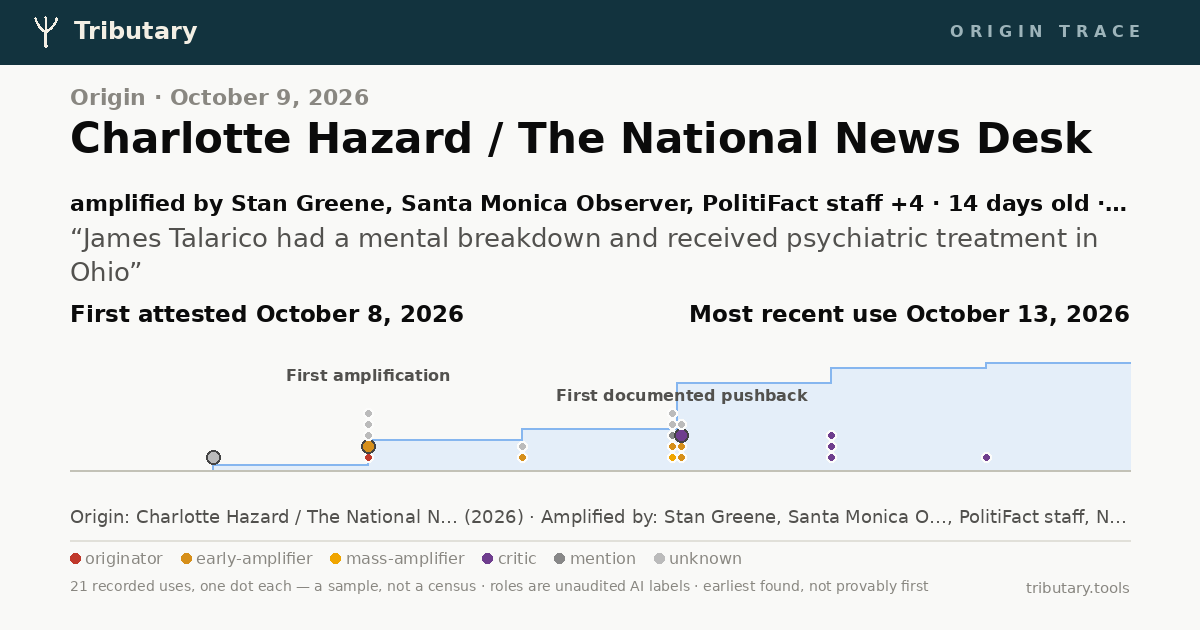
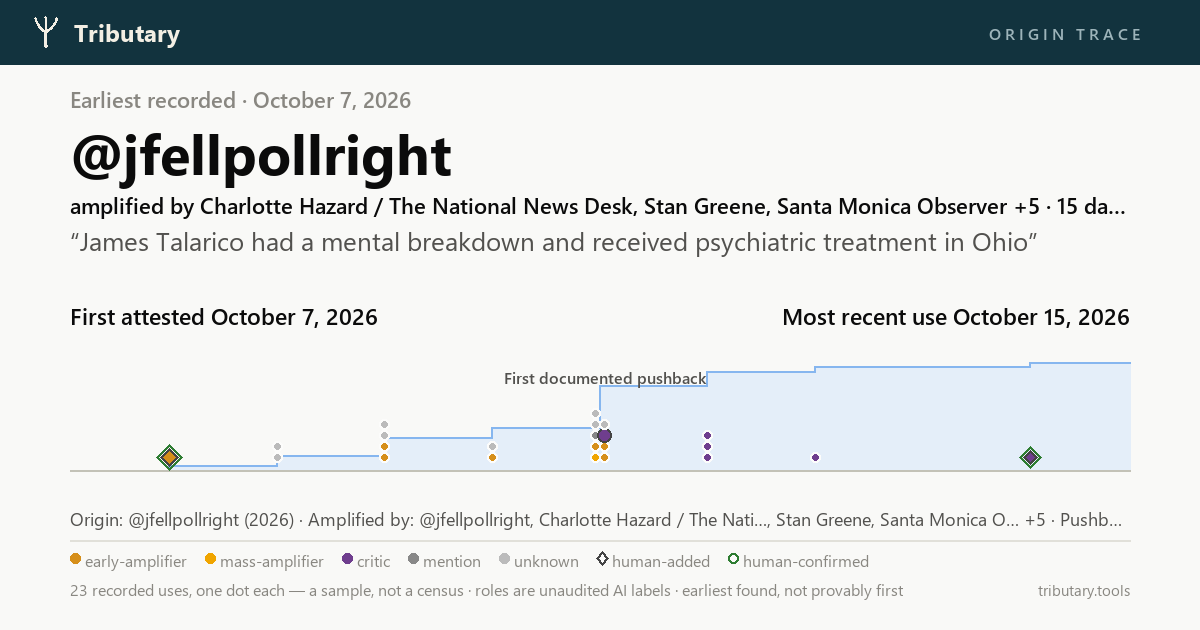
The fresh Talarico trace corrected with receipts before expert eyes: the Oct 7 origin post added (Guardian-documented, snowflake-verified), the Pratt crown removed (a relay cannot coin; origin predates the record), TickleTexts re-dated by its own post id, real status URLs on the cited social origins

diff --git a/gallery/cards/47d78940cf28.html b/gallery/cards/47d78940cf28.html
@@ -3,18 +3,18 @@
 <head>
 <meta charset="utf-8">
 <meta name="viewport" content="width=device-width, initial-scale=1">
-<title>Origin: Charlotte Hazard / The National News Desk — Tributary</title>
+<title>Earliest recorded: @jfellpollright — Tributary</title>
 <meta property="og:type" content="article">
 <meta property="og:site_name" content="Tributary">
-<meta property="og:title" content="Charlotte Hazard / The National News Desk — origin of “James Talarico had a mental breakdown and received psychiatr”">
-<meta property="og:description" content="Amplified by Stan Greene, Santa Monica Observer, PolitiFact staff +4. “James Talarico had a mental breakdown and received psychiatric treatment in Ohio” — first attested October 8, 2026 (14 days old). 21 recorded uses. Every date and source has a receipt. AI-traced, not human-reviewed.">
+<meta property="og:title" content="@jfellpollright — earliest recorded of “James Talarico had a mental breakdown and received psychiatr”">
+<meta property="og:description" content="Amplified by Charlotte Hazard / The National News Desk, Stan Greene, Santa Monica Observer +5. “James Talarico had a mental breakdown and received psychiatric treatment in Ohio” — first attested October 7, 2026 (15 days old). 23 recorded uses. Every date and source has a receipt. AI-traced, not human-reviewed.">
 <meta property="og:image" content="https://tributary.tools/gallery/cards/47d78940cf28.png">
 <meta property="og:image:width" content="1200">
 <meta property="og:image:height" content="630">
-<meta property="og:image:alt" content="Origin: Charlotte Hazard / The National News Desk. Timeline of 21 recorded uses from October 8, 2026 onward. “James Talarico had a mental breakdown and received psychiatric treatment in Ohio”">
+<meta property="og:image:alt" content="Earliest recorded: @jfellpollright. Timeline of 23 recorded uses from October 7, 2026 onward. “James Talarico had a mental breakdown and received psychiatric treatment in Ohio”">
 <meta property="og:url" content="https://tributary.tools/gallery/cards/47d78940cf28.html">
 <meta name="twitter:card" content="summary_large_image">
-<meta name="description" content="Amplified by Stan Greene, Santa Monica Observer, PolitiFact staff +4. “James Talarico had a mental breakdown and received psychiatric treatment in Ohio” — first attested October 8, 2026 (14 days old). 21 recorded uses. Every date and source has a receipt. AI-traced, not human-reviewed.">
+<meta name="description" content="Amplified by Charlotte Hazard / The National News Desk, Stan Greene, Santa Monica Observer +5. “James Talarico had a mental breakdown and received psychiatric treatment in Ohio” — first attested October 7, 2026 (15 days old). 23 recorded uses. Every date and source has a receipt. AI-traced, not human-reviewed.">
 <style>
   :root { color-scheme: light; }
   * { box-sizing: border-box; }
@@ -61,16 +61,16 @@
 <div class="wrap">
   <div class="card">
     <div class="kicker">Tributary · origin trace</div>
-    <div class="eyebrow">Origin · October 9, 2026</div>
-    <div class="headline">Charlotte Hazard / The National News Desk</div>
-    <p class="deck">amplified by Stan Greene, Santa Monica Observer, PolitiFact staff +4 · 14 days old · 21 recorded uses</p>
+    <div class="eyebrow">Earliest recorded · October 7, 2026</div>
+    <div class="headline">@jfellpollright</div>
+    <p class="deck">amplified by Charlotte Hazard / The National News Desk, Stan Greene, Santa Monica Observer +5 · 15 days old · 23 recorded uses</p>
     <p class="phrase">“James Talarico had a mental breakdown and received psychiatric treatment in Ohio”</p>
-    <svg viewBox="0 0 760 212" role="img" aria-label="Timeline of 21 recorded uses from October 8, 2026; Most recent use October 13, 2026"><style>.ms{font:600 15px system-ui;fill:#0b0b0b}.s{font:12.5px system-ui;fill:#898781}.t{font:11.5px system-ui;fill:#898781}.msl{font:600 11.5px system-ui;fill:#52514e}</style><polygon points="10.0,178.0 110.3,178.0 110.3,173.7 218.2,173.7 218.2,152.3 326.1,152.3 326.1,143.7 433.9,143.7 433.9,105.1 541.8,105.1 541.8,92.3 649.7,92.3 649.7,88.0 750.0,88.0 750.0,178.0" fill="#cde2fb" fill-opacity="0.55"/><polyline points="10.0,178.0 110.3,178.0 110.3,173.7 218.2,173.7 218.2,152.3 326.1,152.3 326.1,143.7 433.9,143.7 433.9,105.1 541.8,105.1 541.8,92.3 649.7,92.3 649.7,88.0 750.0,88.0" fill="none" stroke="#86b6ef" stroke-width="1.5"/><line x1="10" y1="178" x2="750" y2="178" stroke="#c3c2b7" stroke-width="1.5"/><circle cx="110.3" cy="165.0" r="6" fill="#bbbbbb" stroke="#444444" stroke-width="1.5"><title>2026-10-08 · Sara Gonzalez · unknown</title></circle><circle cx="218.2" cy="165.0" r="4" fill="#c0392b" stroke="#fcfcfb" stroke-width="1.5"><title>2026-10-09 · Charlotte Hazard / The National News Desk · originator</title></circle><circle cx="218.2" cy="156.0" r="6" fill="#d68f1a" stroke="#444444" stroke-width="1.5"><title>First amplification — 2026-10-09 · Stan Greene, Santa Monica Observer · early-amplifier</title></circle><circle cx="218.2" cy="147.0" r="4" fill="#bbbbbb" stroke="#fcfcfb" stroke-width="1.5"><title>2026-10-09 · Spencer Pratt · unknown</title></circle><circle cx="218.2" cy="138.0" r="4" fill="#bbbbbb" stroke="#fcfcfb" stroke-width="1.5"><title>2026-10-09 · TickleTexts · unknown</title></circle><circle cx="218.2" cy="129.0" r="4" fill="#bbbbbb" stroke="#fcfcfb" stroke-width="1.5"><title>2026-10-09 · Trending Politics News staff · unknown</title></circle><circle cx="326.1" cy="165.0" r="4" fill="#d68f1a" stroke="#fcfcfb" stroke-width="1.5"><title>2026-10-10 · PolitiFact staff · early-amplifier</title></circle><circle cx="326.1" cy="156.0" r="4" fill="#bbbbbb" stroke="#fcfcfb" stroke-width="1.5"><title>2026-10-10 · Caroline Wren · unknown</title></circle><circle cx="429.4" cy="165.0" r="4" fill="#f0a500" stroke="#fcfcfb" stroke-width="1.5"><title>2026-10-11 · Nick Sortor · mass-amplifier</title></circle><circle cx="438.4" cy="165.0" r="4" fill="#d68f1a" stroke="#fcfcfb" stroke-width="1.5"><title>2026-10-11 · Gateway Pundit staff · early-amplifier</title></circle><circle cx="429.4" cy="156.0" r="4" fill="#d68f1a" stroke="#fcfcfb" stroke-width="1.5"><title>2026-10-11 · Matt Margolis, PJ Media · early-amplifier</title></circle><circle cx="438.4" cy="156.0" r="4" fill="#d68f1a" stroke="#fcfcfb" stroke-width="1.5"><title>2026-10-11 · Western Journal staff · early-amplifier</title></circle><circle cx="429.4" cy="147.0" r="4" fill="#888888" stroke="#fcfcfb" stroke-width="1.5"><title>2026-10-11 · The Texan staff · mention</title></circle><circle cx="438.4" cy="147.0" r="6" fill="#6f3e8e" stroke="#444444" stroke-width="1.5"><title>First documented pushback — 2026-10-11 · The Bulwark staff · critic</title></circle><circle cx="429.4" cy="138.0" r="4" fill="#bbbbbb" stroke="#fcfcfb" stroke-width="1.5"><title>2026-10-11 · Rhein Amacher · unknown</title></circle><circle cx="438.4" cy="138.0" r="4" fill="#bbbbbb" stroke="#fcfcfb" stroke-width="1.5"><title>2026-10-11 · Kyle Becker, RedState · unknown</title></circle><circle cx="429.4" cy="129.0" r="4" fill="#bbbbbb" stroke="#fcfcfb" stroke-width="1.5"><title>2026-10-11 · RAIR Foundation staff · unknown</title></circle><circle cx="541.8" cy="165.0" r="4" fill="#6f3e8e" stroke="#fcfcfb" stroke-width="1.5"><title>2026-10-12 · Snopes staff · critic</title></circle><circle cx="541.8" cy="156.0" r="4" fill="#6f3e8e" stroke="#fcfcfb" stroke-width="1.5"><title>2026-10-12 · Associated Press · critic</title></circle><circle cx="541.8" cy="147.0" r="4" fill="#6f3e8e" stroke="#fcfcfb" stroke-width="1.5"><title>2026-10-12 · Dallas Morning News staff · critic</title></circle><circle cx="649.7" cy="165.0" r="4" fill="#6f3e8e" stroke="#fcfcfb" stroke-width="1.5"><title>2026-10-13 · D'Angelo Gore, FactCheck.org · critic</title></circle><text x="218.2" y="58" text-anchor="middle" class="msl">First amplification</text><text x="438.4" y="74" text-anchor="middle" class="msl">First documented pushback</text><text x="10" y="20" class="ms">First attested October 8, 2026</text><text x="10" y="38" class="s">Sara Gonzalez</text><text x="750" y="20" text-anchor="end" class="ms">Most recent use October 13, 2026</text></svg>
-    <p class="who">Origin: Charlotte Hazard / The National N… (2026) · Amplified by: Stan Greene, Santa Monica O…, PolitiFact staff, Nick Sortor +3 · Pushback: The Bulwark staff, Snopes staff +3</p>
-    <div class="legend"><span class="lg"><span class="lgdot" style="background:#c0392b"></span>originator</span><span class="lg"><span class="lgdot" style="background:#d68f1a"></span>early-amplifier</span><span class="lg"><span class="lgdot" style="background:#f0a500"></span>mass-amplifier</span><span class="lg"><span class="lgdot" style="background:#6f3e8e"></span>critic</span><span class="lg"><span class="lgdot" style="background:#888888"></span>mention</span><span class="lg"><span class="lgdot" style="background:#bbbbbb"></span>unknown</span></div>
+    <svg viewBox="0 0 760 212" role="img" aria-label="Timeline of 23 recorded uses from October 7, 2026; Most recent use October 15, 2026"><style>.ms{font:600 15px system-ui;fill:#0b0b0b}.s{font:12.5px system-ui;fill:#898781}.t{font:11.5px system-ui;fill:#898781}.msl{font:600 11.5px system-ui;fill:#52514e}</style><polygon points="10.0,178.0 79.8,178.0 79.8,174.1 154.8,174.1 154.8,166.3 229.9,166.3 229.9,150.6 304.9,150.6 304.9,142.8 380.0,142.8 380.0,107.6 455.1,107.6 455.1,95.8 530.1,95.8 530.1,91.9 680.2,91.9 680.2,88.0 750.0,88.0 750.0,178.0" fill="#cde2fb" fill-opacity="0.55"/><polyline points="10.0,178.0 79.8,178.0 79.8,174.1 154.8,174.1 154.8,166.3 229.9,166.3 229.9,150.6 304.9,150.6 304.9,142.8 380.0,142.8 380.0,107.6 455.1,107.6 455.1,95.8 530.1,95.8 530.1,91.9 680.2,91.9 680.2,88.0 750.0,88.0" fill="none" stroke="#86b6ef" stroke-width="1.5"/><line x1="10" y1="178" x2="750" y2="178" stroke="#c3c2b7" stroke-width="1.5"/><path d="M 79.8 154.5 L 90.3 165.0 L 79.8 175.5 L 69.3 165.0 Z" fill="none" stroke="#2e7d32" stroke-width="2"/><path d="M 79.8 157.5 L 87.3 165.0 L 79.8 172.5 L 72.3 165.0 Z" fill="#d68f1a" stroke="#444444" stroke-width="1.5"><title>2026-10-07 · @jfellpollright · early-amplifier · added by maintainer · human-confirmed</title></path><circle cx="154.8" cy="165.0" r="4" fill="#bbbbbb" stroke="#fcfcfb" stroke-width="1.5"><title>2026-10-08 · Sara Gonzalez · unknown</title></circle><circle cx="154.8" cy="156.0" r="4" fill="#bbbbbb" stroke="#fcfcfb" stroke-width="1.5"><title>2026-10-08 · TickleTexts · unknown</title></circle><circle cx="229.9" cy="165.0" r="4" fill="#d68f1a" stroke="#fcfcfb" stroke-width="1.5"><title>2026-10-09 · Charlotte Hazard / The National News Desk · early-amplifier</title></circle><circle cx="229.9" cy="156.0" r="4" fill="#d68f1a" stroke="#fcfcfb" stroke-width="1.5"><title>2026-10-09 · Stan Greene, Santa Monica Observer · early-amplifier</title></circle><circle cx="229.9" cy="147.0" r="4" fill="#bbbbbb" stroke="#fcfcfb" stroke-width="1.5"><title>2026-10-09 · Spencer Pratt · unknown</title></circle><circle cx="229.9" cy="138.0" r="4" fill="#bbbbbb" stroke="#fcfcfb" stroke-width="1.5"><title>2026-10-09 · Trending Politics News staff · unknown</title></circle><circle cx="304.9" cy="165.0" r="4" fill="#d68f1a" stroke="#fcfcfb" stroke-width="1.5"><title>2026-10-10 · PolitiFact staff · early-amplifier</title></circle><circle cx="304.9" cy="156.0" r="4" fill="#bbbbbb" stroke="#fcfcfb" stroke-width="1.5"><title>2026-10-10 · Caroline Wren · unknown</title></circle><circle cx="375.5" cy="165.0" r="4" fill="#f0a500" stroke="#fcfcfb" stroke-width="1.5"><title>2026-10-11 · Nick Sortor · mass-amplifier</title></circle><circle cx="384.5" cy="165.0" r="4" fill="#d68f1a" stroke="#fcfcfb" stroke-width="1.5"><title>2026-10-11 · Gateway Pundit staff · early-amplifier</title></circle><circle cx="375.5" cy="156.0" r="4" fill="#d68f1a" stroke="#fcfcfb" stroke-width="1.5"><title>2026-10-11 · Matt Margolis, PJ Media · early-amplifier</title></circle><circle cx="384.5" cy="156.0" r="4" fill="#d68f1a" stroke="#fcfcfb" stroke-width="1.5"><title>2026-10-11 · Western Journal staff · early-amplifier</title></circle><circle cx="375.5" cy="147.0" r="4" fill="#888888" stroke="#fcfcfb" stroke-width="1.5"><title>2026-10-11 · The Texan staff · mention</title></circle><circle cx="384.5" cy="147.0" r="6" fill="#6f3e8e" stroke="#444444" stroke-width="1.5"><title>First documented pushback — 2026-10-11 · The Bulwark staff · critic</title></circle><circle cx="375.5" cy="138.0" r="4" fill="#bbbbbb" stroke="#fcfcfb" stroke-width="1.5"><title>2026-10-11 · Rhein Amacher · unknown</title></circle><circle cx="384.5" cy="138.0" r="4" fill="#bbbbbb" stroke="#fcfcfb" stroke-width="1.5"><title>2026-10-11 · Kyle Becker, RedState · unknown</title></circle><circle cx="375.5" cy="129.0" r="4" fill="#bbbbbb" stroke="#fcfcfb" stroke-width="1.5"><title>2026-10-11 · RAIR Foundation staff · unknown</title></circle><circle cx="455.1" cy="165.0" r="4" fill="#6f3e8e" stroke="#fcfcfb" stroke-width="1.5"><title>2026-10-12 · Snopes staff · critic</title></circle><circle cx="455.1" cy="156.0" r="4" fill="#6f3e8e" stroke="#fcfcfb" stroke-width="1.5"><title>2026-10-12 · Associated Press · critic</title></circle><circle cx="455.1" cy="147.0" r="4" fill="#6f3e8e" stroke="#fcfcfb" stroke-width="1.5"><title>2026-10-12 · Dallas Morning News staff · critic</title></circle><circle cx="530.1" cy="165.0" r="4" fill="#6f3e8e" stroke="#fcfcfb" stroke-width="1.5"><title>2026-10-13 · D'Angelo Gore, FactCheck.org · critic</title></circle><path d="M 680.2 156.5 L 688.7 165.0 L 680.2 173.5 L 671.7 165.0 Z" fill="none" stroke="#2e7d32" stroke-width="2"/><path d="M 680.2 159.5 L 685.7 165.0 L 680.2 170.5 L 674.7 165.0 Z" fill="#6f3e8e" stroke="#444444" stroke-width="1.5"><title>2026-10-15 · David Smith, The Guardian · critic · added by maintainer · human-confirmed</title></path><text x="384.5" y="58" text-anchor="middle" class="msl">First documented pushback</text><text x="10" y="20" class="ms">First attested October 7, 2026</text><text x="10" y="38" class="s">@jfellpollright</text><text x="750" y="20" text-anchor="end" class="ms">Most recent use October 15, 2026</text></svg>
+    <p class="who">Origin: @jfellpollright (2026) · Amplified by: @jfellpollright, Charlotte Hazard / The Nati…, Stan Greene, Santa Monica O… +5 · Pushback: The Bulwark staff, Snopes staff +4</p>
+    <div class="legend"><span class="lg"><span class="lgdot" style="background:#d68f1a"></span>early-amplifier</span><span class="lg"><span class="lgdot" style="background:#f0a500"></span>mass-amplifier</span><span class="lg"><span class="lgdot" style="background:#6f3e8e"></span>critic</span><span class="lg"><span class="lgdot" style="background:#888888"></span>mention</span><span class="lg"><span class="lgdot" style="background:#bbbbbb"></span>unknown</span><span class="lg"><span class="lgdot lgdiamond"></span>human-added</span><span class="lg"><span class="lgdot lgring" style="border-color:#2e7d32"></span>human-confirmed</span></div>
     
     <div class="cardfoot">
-      <span>21 recorded uses · one dot each, colored by role — a sample, not a census · roles are unaudited AI labels · first attested October 8, 2026, the earliest we found</span>
+      <span>23 recorded uses · one dot each, colored by role — a sample, not a census · roles are unaudited AI labels · first attested October 7, 2026, the earliest we found</span>
       <span>AI-traced, not human-reviewed</span>
     </div>
   </div>
@@ -80,7 +80,7 @@
 
   <p class="honesty">
     This card is AI-generated and not yet human-reviewed. “First attested” is the earliest
-    use our search found — attestation confidence as recorded by the pipeline: 0.82 —
+    use our search found — attestation confidence as recorded by the pipeline: 0.90 —
     and an earlier one may exist. Dot order shows sequence, not influence, and the shaded area shows the share of recorded uses accumulated by each date — the tempo of our sample, not audience reach; hover any dot
     for its date, source, and role. Role labels (originator / amplifier / adoption /
     critic) are AI judgments that have not yet passed a human audit. The full trace
